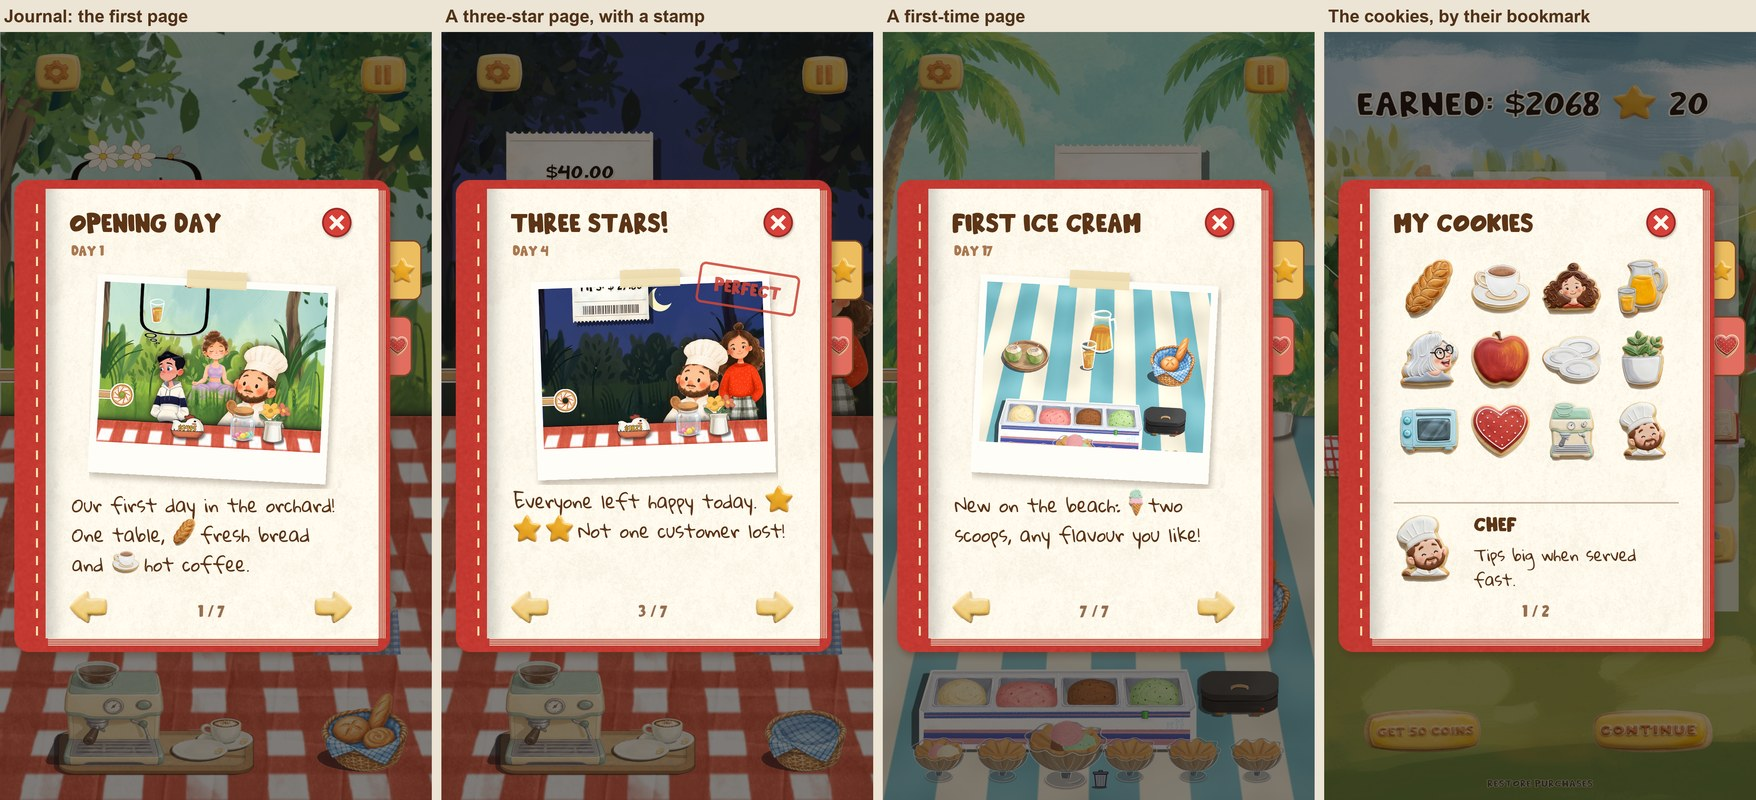
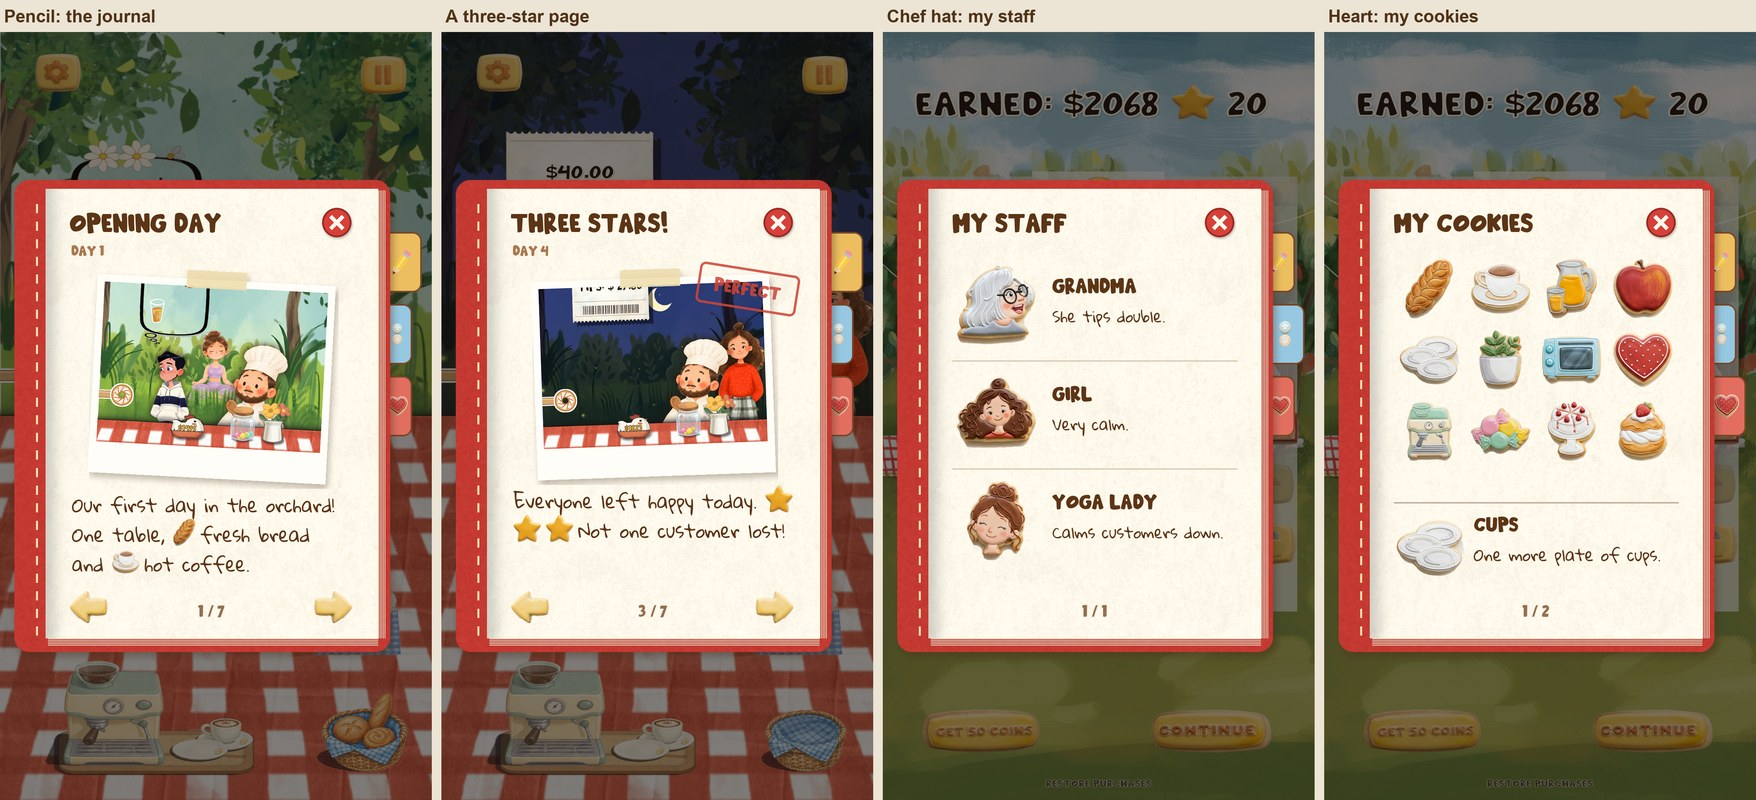
Cake frame 2: the leftover line at the gap's edge and the pale strip at the cut face's end removed (owner: fix both); Daily Treats reward a little higher; report; ProjectSettings preloaded asset back as it was

diff --git a/Docs/tools/report_page/index.html b/Docs/tools/report_page/index.html
@@ -74,24 +74,41 @@ h3 small{font-weight:600;color:var(--soft);font-size:13px;margin-left:6px}
 <h2 id="next"><span class="n">1</span>Next</h2>
 <div class="grid">
 <div class="who p1"><h3>You</h3>
-<p><b>Test build 2026.11.19 (1) is in TestFlight.</b></p>
-<p><b>One click, please:</b> Unity shows a box "No Adaptive Performance provider found". Click <b>Ignore</b>. Until then I cannot run the game in the editor, so the glass shop panel is written but not yet seen.</p>
-<p><b>Current:</b> are the circles on the cake the right places?</p>
-<p><b>Q&amp;A:</b> the journal design. <b>MVP:</b> pick a mixer.</p>
+<p><b>Test build 2026.11.19 (1) is in TestFlight.</b> Four things came after it: the glass shop panel, the cake fix, the smaller Daily Treats button and its even dots. Say "build" for (2).</p>
+<p><b>Q&amp;A:</b> pick a handwriting font; the journal's milestones.</p>
+<p><b>MVP:</b> pick a mixer.</p>
 </div>
 <div class="who p2"><h3>Me</h3>
-<p>After your click: run the glass shop panel, fix what looks wrong, show it here.</p>
-<p>After your word on the circles: fix cake frame 2.</p>
+<p>On your font pick: swap it in the shop's popup and the cookie book, and use it in the journal.</p>
 </div>
 </div>
 
 <h2 id="qa"><span class="n">2</span>Q&amp;A</h2>
-<div class="q"><h3>The journal: design</h3>
-<figure><img src="journal_design.jpg" alt="Four phone mock-ups of the red book, shorter than before, bound on the left, two bookmarks on its right edge (a star for the journal, a heart for the cookies). Page 1 Opening day: a taped photo of the table with three customers and two handwritten lines with a bread cookie and a coffee cookie inside the text. A page Three stars with a red PERFECT stamp on the photo. A page First ice cream with a photo of the ice cream station. The cookies page with twelve cookies and the chef's description"><figcaption>Mock-ups, not in the game. The star bookmark opens the journal, the heart bookmark the cookies.</figcaption></figure>
+<div class="q"><h3>The handwriting font: options</h3>
+<figure><img src="font_options.jpg" alt="The same two lines of text in seven handwriting fonts: the current Gloria Hallelujah, then 1 Patrick Hand (narrow, upright, very clear), 2 Kalam (slanted pen writing), 3 Schoolbell (childlike print), 4 Short Stack (wide round letters), 5 Handlee (light neat hand), 6 Architects Daughter (loose capitals-like hand)"><figcaption>The font now, then six that read more easily. All are free for games (Open Font Licence).</figcaption></figure>
 <ul>
-<li><b>The book:</b> your B, shorter (about 60 % of the screen's height). Two bookmarks on the right edge: journal and cookies. The open part's bookmark sticks out further.</li>
-<li><b>A page:</b> title, the day it happened, one taped photo, one or two handwritten lines with the new thing's cookie inside the text. All fixed per milestone: I write each page once, nothing is made up at run time.</li>
+<li><b>Where the font is used today:</b> two places. The words in the shop's buy popup (the chalk writing), and the description under a cookie in the cookie book. Your pick replaces it in both, and the journal uses it too.</li>
+<li>My pick: <b>1, Patrick Hand</b>. It still looks written by hand and is the clearest at small sizes. 5 is close but thinner.</li>
+<li>Ticking a number is also your yes to downloading that one font file from Google Fonts (under 1 MB).</li>
+</ul>
+<ul class="checks">
+<li><label><input type="checkbox" data-id="qa.font.1"> 1 Patrick Hand</label></li>
+<li><label><input type="checkbox" data-id="qa.font.2"> 2 Kalam</label></li>
+<li><label><input type="checkbox" data-id="qa.font.3"> 3 Schoolbell</label></li>
+<li><label><input type="checkbox" data-id="qa.font.4"> 4 Short Stack</label></li>
+<li><label><input type="checkbox" data-id="qa.font.5"> 5 Handlee</label></li>
+<li><label><input type="checkbox" data-id="qa.font.6"> 6 Architects Daughter</label></li>
+<li><label><input type="checkbox" data-id="qa.font.more"> More options</label></li>
+</ul>
+</div>
+
+<div class="q"><h3>The journal: design</h3>
+<figure><img src="journal_design.jpg" alt="Four phone mock-ups of the shorter red book with three bookmarks on its right edge: a yellow one with a pencil, a blue one with a chef's hat, a red one with a heart. Pencil: the journal page Opening day with a taped photo and two handwritten lines. A three-star page with a PERFECT stamp. Chef's hat: My staff, with Grandma, the Girl and the Yoga lady and a line each. Heart: My cookies, twelve things bought, no people"><figcaption>Mock-ups, not in the game. Three bookmarks: pencil = journal, chef's hat = my staff, heart = my cookies (no staff there any more).</figcaption></figure>
+<ul>
+<li><b>The book:</b> your B, shorter (about 60 % of the screen's height). The open part's bookmark sticks out further.</li>
+<li><b>A journal page:</b> title, the day it happened, one taped photo, one or two lines with the new thing's cookie inside the text. Fixed per milestone.</li>
 <li><b>New page:</b> the book's button gets a NEW tag, and the book opens on that page. Pages stay in the order you earned them.</li>
+<li>The pencil here is a stand-in; the real one would be an iced cookie like the others. The handwriting is still the old font until you pick one above.</li>
 </ul>
 <p style="margin:10px 0 4px"><b>Milestones I would start with</b> (tick the ones to keep):</p>
 <ul class="checks">
@@ -99,7 +116,7 @@ h3 small{font-weight:600;color:var(--soft);font-size:13px;margin-left:6px}
 <li><label><input type="checkbox" data-id="qa.jm.star3"> First three stars (PERFECT stamp)</label></li>
 <li><label><input type="checkbox" data-id="qa.jm.food"> New on the menu: one page per food bought (apple, juice, cake, choux, cookies, coconut, ice cream)</label></li>
 <li><label><input type="checkbox" data-id="qa.jm.first"> First time made: first cake baked, first coffee, first ice cream</label></li>
-<li><label><input type="checkbox" data-id="qa.jm.people"> A new face: Grandma, the Chef, the yoga lady join</label></li>
+<li><label><input type="checkbox" data-id="qa.jm.people"> A new face: each staff member who joins</label></li>
 <li><label><input type="checkbox" data-id="qa.jm.kitchen"> Kitchen: second oven, third oven, better coffee machine, first time you rearranged it</label></li>
 <li><label><input type="checkbox" data-id="qa.jm.decor"> Decor: the flower pots</label></li>
 <li><label><input type="checkbox" data-id="qa.jm.count"> Counts: 100, 500, 1000 customers served</label></li>
@@ -124,41 +141,41 @@ h3 small{font-weight:600;color:var(--soft);font-size:13px;margin-left:6px}
 </div>
 
 <h2 id="current"><span class="n">3</span>Current</h2>
-<p class="sub" style="margin:0 0 8px">Release 1: the look. Test build 2026.11.19 (1) has everything here except the glass shop panel.</p>
+<p class="sub" style="margin:0 0 8px">Release 1: the look. The first three cards are in the project but came after build (1).</p>
 <div class="card">
-<p style="margin-top:0"><b>Strawberry cake, frame 2: are these the places?</b></p>
-<figure><img src="cake_frame2_circles.jpg" style="max-height:560px" alt="Frame 2 of the cake in the game, enlarged, with two red circles. Circle 1: a thin tan and red sliver running down the left edge of the empty space, where the taken slice touched its neighbour. Circle 2: a narrow strip at the left end of the cut face, at the cake's middle, where the layers look pale and shifted"><figcaption>Frame 2 as it is in the game now.</figcaption></figure>
+<p style="margin-top:0"><b>Shop panel as liquid glass, rounded.</b> After build (1).</p>
+<figure><img src="shop_glass.jpg" alt="The shop twice. The panel is a rounded pane of frosted glass: the truck and trees behind it are blurred, a bright thin rim runs round it, the cookies and prices sit on it. Above it a long glass pill holds the three tab pictures, with a brighter rounded lens over the open one: the coin on the left picture, the star on the right picture"><figcaption>Left: the coins tab. Right: the stars tab; the lens slides to the tab you tap.</figcaption></figure>
 <ul>
-<li><b>1:</b> the thin tan and red line down the left edge of the empty space, down to the plate. It is the taken slice's edge, left behind. I think this is the one you mean.</li>
-<li><b>2:</b> the pale strip at the left end of the cut face, where the layers do not line up.</li>
+<li>The shop's own background shows through, blurred, under a thin white veil; a bright rim and a soft shadow round the pane.</li>
+<li>The tabs are a glass pill above the pane instead of folder tabs.</li>
 </ul>
 <ul class="checks">
-<li><label><input type="checkbox" data-id="cur.cake4.one"> 1</label></li>
-<li><label><input type="checkbox" data-id="cur.cake4.two"> 2</label></li>
-<li><label><input type="checkbox" data-id="cur.cake4.both"> Both</label></li>
-<li><label><input type="checkbox" data-id="cur.cake4.other"> Somewhere else (I will say)</label></li>
+<li><label><input type="checkbox" data-id="cur.glass.good"> Good</label></li>
+<li><label><input type="checkbox" data-id="cur.glass.whiter"> More white in the glass (prices easier to read)</label></li>
+<li><label><input type="checkbox" data-id="cur.glass.clearer"> Less blur, clearer glass</label></li>
+<li><label><input type="checkbox" data-id="cur.glass.change"> Other changes (I will say what)</label></li>
 </ul>
 </div>
 
 <div class="card">
-<p style="margin-top:0"><b>Daily Treats: four days, room at the sides.</b> In build (1).</p>
-<figure><img src="treats_square.jpg" alt="Daily Treats three times on a smaller square mint card with free space left and right of it: day 2 with four notes (day 1 pale with a tick, day 2 bigger with +50, day 3 with a coin, day 4 with the gift), the trail and Collect; the same after Collect with the coin and +50, a close button and One more treat; day 4 with the gift and a question mark"><figcaption>Day 2; after Collect; day 4, the gift day.</figcaption></figure>
+<p style="margin-top:0"><b>Strawberry cake, frame 2: both places fixed.</b> After build (1).</p>
+<figure><img src="cake_frame2_fixed.jpg" alt="Frame 2 of the cake, enlarged, before and after. Before: a thin tan and red line down the left edge of the empty space and a pale strip at the left end of the cut face. After: the empty space's left edge is clean down to the plate, and the cut face ends at one clean edge"><figcaption>Left: before. Right: now.</figcaption></figure>
 <ul>
-<li>The row is four days: three coin days, then the gift (+150) on day 4.</li>
-<li>The card is smaller, so the screen shows at its left and right.</li>
+<li><b>1:</b> the line down the left edge of the empty space is gone; the bare plate is there, as in the other frames.</li>
+<li><b>2:</b> the pale strip is gone; the cut face ends at one clean edge.</li>
 </ul>
 <ul class="checks">
-<li><label><input type="checkbox" data-id="cur.treats4.good"> Good</label></li>
-<li><label><input type="checkbox" data-id="cur.treats4.change"> Changes (I will say what)</label></li>
+<li><label><input type="checkbox" data-id="cur.cake5.good"> Good</label></li>
+<li><label><input type="checkbox" data-id="cur.cake5.more"> Still something (I will say)</label></li>
 </ul>
 </div>
 
 <div class="card">
-<p style="margin-top:0"><b>Shop panel as liquid glass: written, not yet seen running</b> (it waits for the click in Next). Not in build (1).</p>
+<p style="margin-top:0"><b>Daily Treats: smaller button, even dots.</b> After build (1).</p>
+<figure><img src="treats_square.jpg" alt="Daily Treats three times: day 2 with a smaller Collect button and clear space between it and the bottom dotted line; after Collect with the coin, +50 and a smaller One more treat button; day 4 with the gift. The dotted lines have evenly spaced round dots with one dot exactly in each corner"><figcaption>Day 2; after Collect; day 4.</figcaption></figure>
 <ul>
-<li>The panel is a rounded pane: the shop's background shows through it blurred, under a thin white veil, with a bright rim and a soft shadow.</li>
-<li>The three tabs become a glass pill above the pane; a brighter lens slides to the open tab.</li>
-<li>A picture comes here as soon as I can run it.</li>
+<li>Collect and One more treat are smaller and sit higher, clear of the bottom dotted line.</li>
+<li>Every dotted line is redrawn: evenly spaced round dots, one exactly in each corner (two dots overlapped there before).</li>
 </ul>
 </div>
 
@@ -186,9 +203,9 @@ h3 small{font-weight:600;color:var(--soft);font-size:13px;margin-left:6px}
 </div>
 
 <h2 id="mvp"><span class="n">4</span>MVP</h2>
-<p class="sub" style="margin:0 0 8px">Release 2, this weekend: the kitchen flow, with a baking mixer. Waiting for your flow.</p>
+<p class="sub" style="margin:0 0 8px">Release 2, this weekend: the kitchen flow, with a baking mixer and the journal. Waiting for your flow.</p>
 <div class="card">
-<p style="margin-top:0"><b>A mixer for baking: drafts.</b> The drinks blenders are gone.</p>
+<p style="margin-top:0"><b>A mixer for baking: drafts.</b></p>
 <figure><img src="mixer_gemini.jpg" alt="Six painted baking mixers by Gemini. 1: a cream stand mixer with a wire whisk, a steel bowl and a red dial. 2: a mint stand mixer with a flat beater and a white bowl with batter. 3: a yellow hand mixer resting on a pale bowl. 4: a red stand mixer with a dough hook and a steel bowl. 5: a pink stand mixer with a whisk, a cream bowl and a wooden spoon. 6: a pale blue stand mixer seen from the front with a glass bowl"><figcaption>Gemini, in the kitchen's painting style.</figcaption></figure>
 <ul>
 <li>All six are Gemini's. The game has no mixer picture I could build my own from; say the word and I paint some too.</li>

diff --git a/Assets/Scripts/DailyTreats/DailyTreats.cs b/Assets/Scripts/DailyTreats/DailyTreats.cs
@@ -124,7 +124,7 @@ public class DailyTreats : MonoBehaviour
     {
         // the buttons a little smaller and higher (owner, 19 November: "make the buttons slightly smaller, leave some space
         // between button and the bottom dot line")
-        RewardY = -160f; RewardScale = 0.66f; ButtonY = -272f; ButtonScale = 0.68f; ClosePos = new Vector2(322f, 229f);
+        RewardY = -146f; RewardScale = 0.66f; ButtonY = -272f; ButtonScale = 0.68f; ClosePos = new Vector2(322f, 229f);
         AmountTint = new Color(0.90f, 0.56f, 0.24f);   // the cream "+50" letters, orange on the pale card
         var board = NewImage("Board", canvasRect, paper, Color.white);
         Place(board.rectTransform, 0f, 0f, 890f, 890f);
